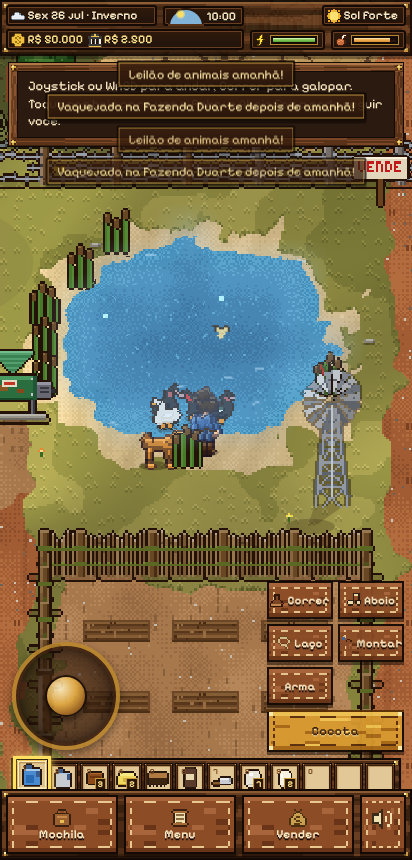
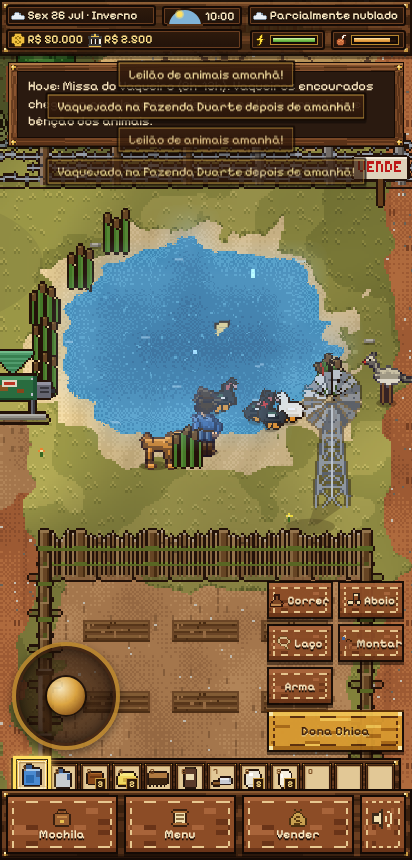
feat: diário de lida, mapa novo com estado dos pastos, animações e sons da lida; corrige barbatão que não cansava
Design: design/gdd/expansao_vida_rural.md (Rodada 4)

Claude-Session: https://claude.ai/code/session_019QA4KfsXCLeXJkXGqj3TGQ

diff --git a/web/index.html b/web/index.html
@@ -4724,6 +4724,13 @@ const AU = {
   shot(x, y) { const v = 0.5 * this.sp(x, y); this.nz(0.35, v, 'lowpass', 1800, 0.7); this.nz(1.2, v * 0.35, 'lowpass', 300, 0.6, { delay: 0.05 }); },
   slash() { this.nz(0.14, 0.18, 'bandpass', 3200, 1.4); },
   hiss(x, y) { this.nz(0.8, 0.1 * this.sp(x, y), 'highpass', 4200, 0.8); },
+  // sons novos: chocalho da madrinha, cigarra no calor, berrante, jato de leite no balde, bem-te-vi e ferro em brasa
+  chocalho(x, y) { if (!this.ctx) return; const v = 0.05 * this.sp(x, y); for (let i = 0; i < 2; i++) { this.osc('square', 610, 590, 0.22, v, { delay: i * 0.13, filt: 'bandpass', ff: 1250, q: 6, bus: 'a' }); this.osc('triangle', 915, 900, 0.16, v * 0.6, { delay: i * 0.13, bus: 'a' }); } },
+  cigarra() { if (!this.ctx) return; const f = rnd(4000, 4600); this.osc('sawtooth', f, f * 0.98, rnd(1.4, 2.4), 0.006, { filt: 'bandpass', ff: f, q: 9, vib: 55, vd: 220, att: 0.3, bus: 'a' }); },
+  berrante() { if (!this.ctx) return; this.osc('sawtooth', 196, 208, 1.9, 0.08, { filt: 'lowpass', ff: 700, q: 3, att: 0.25, vib: 4, vd: 2 }); this.osc('sawtooth', 294, 300, 1.2, 0.05, { delay: 1.9, filt: 'lowpass', ff: 800, q: 3, att: 0.15 }); },
+  squirt(x, y) { if (!this.ctx) return; for (let i = 0; i < 4; i++) this.nz(0.12, 0.05 * this.sp(x, y), 'bandpass', 2600 + i * 200, 2, { delay: i * 0.32 }); },
+  bemtevi() { if (!this.ctx) return; const f = rnd(2300, 2600); this.osc('sine', f, f * 1.05, 0.12, 0.02, { bus: 'a' }); this.osc('sine', f * 1.25, f * 1.2, 0.1, 0.02, { delay: 0.18, bus: 'a' }); this.osc('sine', f * 1.1, f * 0.85, 0.22, 0.02, { delay: 0.32, bus: 'a' }); },
+  brasa(x, y) { this.hiss(x, y); this.crackle && this.crackle(x, y); },
   hoot(x, y) { const v = 0.1 * this.sp(x, y); this.osc('sine', 420, 380, 0.25, v); this.osc('sine', 400, 360, 0.4, v, { delay: 0.35 }); },
   music(dt) {
     if (!this.ok() || this.vol.mu < 0.01 || mode !== 'play' || inst.on) return;
@@ -4746,6 +4753,10 @@ const AU = {
     L.town.g.gain.setTargetAtTime(town * 0.02, t, 0.8);
     if (isNight() && Math.random() < dt * 6) { const f = rnd(4200, 5200); for (let i = 0; i < 3; i++) this.osc('sine', f, 0, 0.03, 0.012, { delay: i * 0.06, bus: 'a' }); }
     if (isNight() && wd < 10 && Math.random() < dt * 0.8) this.osc('square', 180, 120, 0.12, 0.02, { filt: 'lowpass', ff: 500, bus: 'a' });
+    const hr = hour(), countryside = cx < 70 * TS || cy > 62 * TS || cy < 28 * TS;
+    if (!isNight() && countryside && hr >= 10 && hr <= 16 && (season() || S.weather === 'calor') && Math.random() < dt * 0.25) this.cigarra();
+    if (!isNight() && countryside && Math.random() < dt * 0.05) this.bemtevi();
+    if (Math.random() < dt * 0.5) { const a = S.animals.find(q => q.sp === 'boi' && q.own === 'player' && (q._mv || 0) > 6 && Math.abs(q.x - cx) < 160 && Math.abs(q.y - cy) < 120); if (a) this.chocalho(a.x, a.y); }
     if (!isNight() && Math.random() < dt * 0.15) { const f = rnd(2200, 3400); this.osc('sine', f, f * 1.3, 0.12, 0.02, { bus: 'a' }); this.osc('sine', f * 1.2, f, 0.15, 0.02, { delay: 0.16, bus: 'a' }); }
   }
 };
@@ -7149,9 +7160,10 @@ A.bagSel = v => { M.sel = v; renderModal(); AU.click(); };
 A.eat = v => { const it = IT[v]; if (!has(v)) return; closeModal(); act('eat', 0.9, null, () => { useInv(v); P.en = cl(P.en + (it.en || 0), 0, 100); P.fo = cl(P.fo + (it.fo || 0), 0, 100); AU.munch(); toast(`+${it.en || 0} energia · +${it.fo || 0} fome`); }, { zoom: 1.2 }); };
 A.drop = v => { useInv(v); renderModal(); };
 /* ---------- menu principal ---------- */
-const MTABS = [['vaq', 'Vaqueiro', 'hat'], ['inv', 'Mochila', 'bag'], ['ani', 'Animais', 'cow'], ['faz', 'Fazenda', 'farm'], ['pro', 'Produção', 'bank'], ['mis', 'Missões', 'book'], ['map', 'Mapa', 'map'], ['ban', 'Banco', 'bank'], ['obr', 'Obras', 'build'], ['peo', 'Peões', 'worker'], ['rel', 'Relações', 'heart'], ['col', 'Coleção', 'book'], ['cfg', 'Config.', 'gear']];
-function openMenu(tab) { showModal('', MTABS, tab || 'vaq', menuTab); }
+const MTABS = [['dia', 'Diário', 'book'], ['vaq', 'Vaqueiro', 'hat'], ['inv', 'Mochila', 'bag'], ['ani', 'Animais', 'cow'], ['faz', 'Fazenda', 'farm'], ['pro', 'Produção', 'bank'], ['mis', 'Missões', 'book'], ['map', 'Mapa', 'map'], ['ban', 'Banco', 'bank'], ['obr', 'Obras', 'build'], ['peo', 'Peões', 'worker'], ['rel', 'Relações', 'heart'], ['col', 'Coleção', 'book'], ['cfg', 'Config.', 'gear']];
+function openMenu(tab) { showModal('', MTABS, tab || 'dia', menuTab); }
 function menuTab(t) {
+  if (t === 'dia') return diarioHTML();
   if (t === 'col') return `<p class="mut">Peixes pescados, relíquias e as cartas do avô.</p>` + fishCollectionHTML() + relicHTML();
   if (t === 'vaq') {
     const st = STATES[S.cf.st];
@@ -7229,19 +7241,27 @@ function obrasTab() {
   h += '<h3>Projetos disponíveis</h3><p class="mut">Encomende na Casa do Pedreiro, em Itarantim. Materiais vão direto para o depósito.</p>' + Object.keys(BUILD).map(k => { const b = BUILD[k]; return `<div class="card"><div class="row sp"><b>${b.n}</b><b>${fmt(b.p)}</b></div><span class="mut">${b.f} · ${b.days} dia(s)</span><br><span style="font-size:12px">${matList(b.mat)}</span>${b.req.length ? '<br><span class="mut">Requer: ' + b.req.map(r => BUILD[r].n).join(', ') + '</span>' : ''}</div>`; }).join('');
   return h;
 }
-function mapHTML() {
-  const sc = 2.4, [c, g] = mkC(Math.round(WPX / 16 * sc), Math.round(HPX / 16 * sc));
-  g.imageSmoothingEnabled = false; g.drawImage(GR.mini(season()), 0, 0, c.width, c.height); /* mapa por cor média de cada solo: não precisa pintar o mapa inteiro em alta resolução */
-  g.fillStyle = 'rgba(0,0,0,0.25)'; for (const b of BLD) g.fillRect(b.r[0] * sc, b.r[1] * sc, (b.r[2] - b.r[0] + 1) * sc, (b.r[3] - b.r[1] + 1) * sc);
-  g.fillStyle = '#7a4a22'; for (let i = 0; i < obj.length; i++) if (obj[i] === 1) g.fillRect((i % MW) * sc, Math.floor(i / MW) * sc, sc, sc);
-  for (const k of ['norte', 'sul']) if (!S.exp[k]) { g.fillStyle = 'rgba(40,20,10,0.45)'; const y0 = k === 'norte' ? 0 : 67; g.fillRect(0, y0 * sc, 60 * sc, 22 * sc); }
-  g.font = 'bold 9px sans-serif'; g.textAlign = 'center';
-  const lab = (t, x, y) => { g.fillStyle = '#000'; g.fillText(t, x * sc + 1, y * sc + 1); g.fillStyle = '#fff4c0'; g.fillText(t, x * sc, y * sc); };
-  lab('SUA FAZENDA', 20, 22); lab('ITARANTIM', 90, 32); lab('F. CAMPOS', 75, 2.5); lab('F. DUARTE', 75, 89); lab('Curral', 45, 38); lab('Pastos', 18, 56); if (!S.exp.norte) lab('À VENDA', 30, 11); if (!S.exp.sul) lab('À VENDA', 30, 78);
-  for (const a of S.animals) if (a.own === 'player') { g.fillStyle = a.sp === 'boi' ? '#f4f0e8' : '#c08040'; g.fillRect(a.x / TS * sc - 1, a.y / TS * sc - 1, 2, 2); }
-  for (const e of npcs) if (!e.hidden) { g.fillStyle = '#40a0e0'; g.fillRect(e.x / TS * sc - 2, e.y / TS * sc - 2, 4, 4); }
-  g.fillStyle = '#ff3020'; g.beginPath(); g.arc(P.x / TS * sc, P.y / TS * sc, 4, 0, 7); g.fill(); g.strokeStyle = '#fff'; g.lineWidth = 1.5; g.stroke();
-  return `<img src="${c.toDataURL()}" style="width:100%;border:3px solid #2b1608;image-rendering:auto"><p class="mut">🔴 Você · 🔵 Moradores · ⬜ seu gado. A cidade fica a leste, depois da ponte do riacho.</p>`;
+function mapHTML() { // mapa da fazenda e da cidade (x 0–111): pastos coloridos pelo capim, cercados com nome e lotação, marcadores
+  const sc = 3, MWv = 112, [c, g] = mkC(MWv * sc, MH * sc);
+  g.imageSmoothingEnabled = false; const mini = GR.mini(season()); g.drawImage(mini, 0, 0, MWv, MH, 0, 0, MWv * sc, MH * sc);
+  for (const k of AKEYS) { const A0 = AREAS[k], r = A0.r; if (r[0] > MWv || A0.k === 'npc') continue; const ok = owned(k) && !(A0.exp && !S.exp[A0.exp]);
+    if (A0.k === 'pasto' && ok) { const q = pastureInfo(k); g.fillStyle = q.pct < 25 ? 'rgba(220,60,40,0.32)' : q.pct < 50 ? 'rgba(240,200,40,0.28)' : 'rgba(80,200,80,0.22)'; g.fillRect((r[0] + 1) * sc, (r[1] + 1) * sc, (r[2] - r[0] - 1) * sc, (r[3] - r[1] - 1) * sc); }
+    if (!ok) { g.fillStyle = 'rgba(40,20,10,0.42)'; g.fillRect(r[0] * sc, r[1] * sc, (r[2] - r[0] + 1) * sc, (r[3] - r[1] + 1) * sc); } }
+  for (const k of ['norte', 'sul']) if (!S.exp[k]) { g.fillStyle = 'rgba(40,20,10,0.4)'; const y0 = k === 'norte' ? 0 : 67; g.fillRect(0, y0 * sc, 60 * sc, 22 * sc); }
+  g.fillStyle = 'rgba(0,0,0,0.3)'; for (const b of BLD) if (b.r[0] < MWv) g.fillRect(b.r[0] * sc, b.r[1] * sc, (b.r[2] - b.r[0] + 1) * sc, (b.r[3] - b.r[1] + 1) * sc);
+  g.fillStyle = '#6a4020'; for (let y = 0; y < MH; y++) for (let x = 0; x < MWv; x++) if (obj[gi(x, y)] === 1) g.fillRect(x * sc, y * sc, sc, sc);
+  g.textAlign = 'center';
+  const lab = (t, x, y, sz, col) => { g.font = 'bold ' + (sz || 10) + 'px sans-serif'; g.fillStyle = 'rgba(0,0,0,0.85)'; g.fillText(t, x * sc + 1, y * sc + 1); g.fillStyle = col || '#fff4c0'; g.fillText(t, x * sc, y * sc); };
+  for (const k of AKEYS) { const A0 = AREAS[k], r = A0.r; if (r[0] > MWv || A0.k === 'npc') continue; const n = areaCount(k), short = A0.n.replace(/ \(.*\)/, '').replace('Piquete', 'P.').replace('Curral do Retiro', 'Curral'); lab(short + (n ? ' · ' + n : ''), (r[0] + r[2] + 1) / 2, (r[1] + r[3]) / 2 + 1, 9, owned(k) ? '#fff4c0' : '#c8b8a0'); }
+  lab('SUA FAZENDA', 20, 22.5, 12); lab('ITARANTIM', 90, 37, 12); lab('F. CAMPOS', 75, 2.8, 10); lab('F. DUARTE', 75, 90, 10); lab('RETIRO', 20, 111.6, 11); lab('CAATINGA', 86, 112, 10, '#e8d8a8');
+  if (!S.exp.norte) lab('À VENDA', 30, 11); if (!S.exp.sul) lab('À VENDA', 30, 78);
+  for (const a of S.animals) if (a.own === 'player') { g.fillStyle = a.sp === 'boi' ? '#ffffff' : '#e0a050'; g.fillRect(a.x / TS * sc - 1, a.y / TS * sc - 1, 3, 3); }
+  for (const e of npcs) if (!e.hidden && e.x < MWv * TS) { g.fillStyle = '#40a0e0'; g.fillRect(e.x / TS * sc - 2, e.y / TS * sc - 2, 4, 4); }
+  const pin = (x, y, t, col) => { g.fillStyle = col; g.beginPath(); g.arc(x * sc, y * sc - 8, 7, 0, 7); g.fill(); g.strokeStyle = '#2b1608'; g.lineWidth = 2; g.stroke(); g.font = 'bold 10px sans-serif'; g.fillStyle = '#fff'; g.fillText(t, x * sc, y * sc - 4.5); };
+  if (S.pega) { const a = byId(S.pega.aid); if (a) pin(a.x / TS, a.y / TS, '!', '#d04020'); }
+  if (eventsOnDay(S.day).length) pin(84, 50, '★', '#e0a020');
+  g.fillStyle = '#ff3020'; g.beginPath(); g.arc(P.x / TS * sc, P.y / TS * sc, 5, 0, 7); g.fill(); g.strokeStyle = '#fff'; g.lineWidth = 2; g.stroke();
+  return `<img src="${c.toDataURL()}" style="width:100%;border:3px solid #2b1608;image-rendering:auto"><p class="mut">🔴 Você · 🔵 Moradores · ⬜ seu gado · pastos: 🟩 capim bom, 🟨 médio, 🟥 rapado · escuro: terra ainda não liberada · ❗ barbatão · ★ festa hoje na praça.</p>`;
 }
 /* ---------- fazenda ---------- */
 // estado dos pastos: capim médio, lotação, dias de pasto, bebedouro e conselho de rodízio
@@ -7437,13 +7457,20 @@ function lidaDay(a, se) {
 function lidaDo(a, k) {
   skXp('lid', 2);
   const need = (it, msg) => { if (!has(it)) { say(msg); AU.err(); return false; } return true; };
-  if (k === 'umbigo') { if (!need('iodo', 'Precisa de iodo 10% (Casa do Agro).')) return; return doAnimal(a, 'exam', 1.4, () => { if (!useInv('iodo', 0.25)) return; a.umb = 2; a.hp = cl(a.hp + 5, 0, 100); bond(a, 2); hist(a, 'Umbigo curado com iodo'); toast('🩹 Umbigo de ' + a.n + ' curado.'); }); }
-  if (k === 'bicheira') { if (!need('mataBicheira', 'Precisa de mata-bicheira (Casa do Agro).')) return; return doAnimal(a, 'exam', 1.6, () => { if (!useInv('mataBicheira', 0.25)) return; a.bich = 0; a.bichD = 0; a.wound = 0; a.hp = cl(a.hp + 8, 0, 100); hist(a, 'Bicheira curada'); toast('✅ Bicheira de ' + a.n + ' curada.'); }); }
+  if (k === 'umbigo') { if (!need('iodo', 'Precisa de iodo 10% (Casa do Agro).')) return; return doAnimal(a, 'exam', 1.4, () => { if (!useInv('iodo', 0.25)) return; lidaFx(a, 'spray', '#c86a3a'); a.umb = 2; a.hp = cl(a.hp + 5, 0, 100); bond(a, 2); hist(a, 'Umbigo curado com iodo'); toast('🩹 Umbigo de ' + a.n + ' curado.'); }); }
+  if (k === 'bicheira') { if (!need('mataBicheira', 'Precisa de mata-bicheira (Casa do Agro).')) return; return doAnimal(a, 'exam', 1.6, () => { if (!useInv('mataBicheira', 0.25)) return; lidaFx(a, 'spray', '#c8d0d8'); a.bich = 0; a.bichD = 0; a.wound = 0; a.hp = cl(a.hp + 8, 0, 100); hist(a, 'Bicheira curada'); toast('✅ Bicheira de ' + a.n + ' curada.'); }); }
   if (!inPen(a) && k !== 'desmamar') { say('Leve o animal para um curral: no pasto não dá para conter.'); AU.err(); return; }
-  if (k === 'castrar') { if (!need('mataBicheira', 'Depois de castrar precisa de mata-bicheira na ferida.')) return; return doAnimal(a, 'exam', 2.2, () => { if (!useInv('mataBicheira', 0.25)) return; a.cast = 1; a.wound = S.day + 3; a.hap = cl(a.hap - 12, 5, 100); a.stress = (a.stress || 0) + 25; if (a.temp === 'nervoso' || a.temp === 'arisco') a.temp = 'calmo'; hist(a, 'Castrado'); toast('✂ ' + a.n + ' castrado: fica mais manso e engorda melhor. Olho na ferida por 3 dias.'); }); }
-  if (k === 'ferrar') { const it = has('ferroMarca') ? 'Sua marca' : 'Marca T.S. do avô'; return doAnimal(a, 'exam', 2.0, () => { a.brand = 1; a.wound = S.day + 3; a.hap = cl(a.hap - 8, 5, 100); a.stress = (a.stress || 0) + 15; hist(a, 'Ferrado: ' + it); part(a.x, a.y - 14, 'dust', { vx: 0, vy: -14, m: .6, c: '#c8c8c8', s: 2 }); toast('🔥 ' + a.n + ' ferrado (' + it + '). Passe mata-bicheira na queimadura.'); }); }
+  if (k === 'castrar') { if (!need('mataBicheira', 'Depois de castrar precisa de mata-bicheira na ferida.')) return; return doAnimal(a, 'exam', 2.2, () => { if (!useInv('mataBicheira', 0.25)) return; lidaFx(a, 'kick'); lidaFx(a, 'spray', '#c8d0d8'); a.cast = 1; a.wound = S.day + 3; a.hap = cl(a.hap - 12, 5, 100); a.stress = (a.stress || 0) + 25; if (a.temp === 'nervoso' || a.temp === 'arisco') a.temp = 'calmo'; hist(a, 'Castrado'); toast('✂ ' + a.n + ' castrado: fica mais manso e engorda melhor. Olho na ferida por 3 dias.'); }); }
+  if (k === 'ferrar') { const it = has('ferroMarca') ? 'Sua marca' : 'Marca T.S. do avô'; return doAnimal(a, 'exam', 2.0, () => { lidaFx(a, 'brand'); a.brand = 1; a.wound = S.day + 3; a.hap = cl(a.hap - 8, 5, 100); a.stress = (a.stress || 0) + 15; hist(a, 'Ferrado: ' + it); part(a.x, a.y - 14, 'dust', { vx: 0, vy: -14, m: .6, c: '#c8c8c8', s: 2 }); toast('🔥 ' + a.n + ' ferrado (' + it + '). Passe mata-bicheira na queimadura.'); }); }
   if (k === 'desmamar') return doAnimal(a, 'pet', 1.2, () => { a.desm = 1; a.hap = cl(a.hap - 10, 5, 100); const m = S.animals.find(x => x.id === a.mid); if (m) { m.cond = cl(m.cond + 15, 0, 100); m._desmB = S.day + 20; m.lact = Math.min(m.lact || 0, 2); hist(m, 'Bezerro ' + a.n + ' desmamado'); } hist(a, 'Desmamado'); toast('🐮 ' + a.n + ' desmamado. Separe de pasto da mãe; dê ração no cocho para não perder peso.'); });
   if (k === 'pesar') { if (!hasScale()) { say('Precisa de balança: a do Retiro ou um tronco com balança num lote.'); return; } return doAnimal(a, 'exam', 1.2, () => { weighOne(a); toast('⚖ ' + a.n + ': ' + Math.round(a.wt) + ' kg' + (a.wH.length > 1 ? ' · GMD ' + gmd(a).toFixed(2) + ' kg/dia' : '')); }); }
+}
+// animação da lida: partículas e som no animal (spray de remédio, fumaça e brasa do ferro, jatos de leite, coice e poeira)
+function lidaFx(a, kind, col) { const x = a.x, y = a.y;
+  if (kind === 'spray') { for (let i = 0; i < 14; i++) part(x + rnd(-6, 6) * a.f, y - 12 + rnd(-4, 4), 'spark', { vx: rnd(-18, 18), vy: rnd(-22, 4), m: 0.5, c: col || '#e0e8f0', s: 1 }); AU.hiss && AU.hiss(x, y); }
+  if (kind === 'brand') { for (let i = 0; i < 10; i++) part(x - 6 * a.f, y - 14, 'dust', { vx: rnd(-6, 6), vy: rnd(-20, -8), m: 1.1, c: '#d8d8d8', s: 2 }); for (let i = 0; i < 8; i++) part(x - 6 * a.f, y - 12, 'spark', { vx: rnd(-30, 30), vy: rnd(-30, -6), m: 0.4, c: '#ffa040', s: 1 }); AU.brasa && AU.brasa(x, y); AU.moo && AU.moo(x, y, 1.15); lidaFx(a, 'kick'); }
+  if (kind === 'milk') { for (let i = 0; i < 12; i++) part(x + rnd(-3, 3), y - 6, 'spark', { vx: rnd(-4, 4), vy: rnd(8, 26), m: 0.6, c: '#fbfaf2', s: 1 }); AU.squirt && AU.squirt(x, y); }
+  if (kind === 'kick') { for (let i = 0; i < 10; i++) part(x + rnd(-10, 10), y + 2, 'dust', { vx: rnd(-20, 20), vy: rnd(-12, -2), m: 0.7, c: '#b89868', s: 2 }); a._t = 0; a._st = 'idle'; AU.moo && AU.moo(x, y, 1.1); }
 }
 function weighOne(a) { a.wH = a.wH || []; const last = a.wH[a.wH.length - 1]; if (last && last[0] === S.day) last[1] = Math.round(a.wt); else a.wH.push([S.day, Math.round(a.wt)]); if (a.wH.length > 8) a.wH.shift(); hist(a, 'Pesado: ' + Math.round(a.wt) + ' kg'); }
 function arrobas(a) { return a.wt * 0.52 / 15; } // rendimento de carcaça ~52%; arroba = 15 kg de carcaça
@@ -7453,6 +7480,35 @@ function weighLot(ak) {
   showModal('⚖ Balança — ' + AREAS[ak].n, null, null, () => L.length ? `<p class="mut">Lote passado no brete e pesado um a um. GMD = ganho médio diário desde a pesagem anterior (1 dia de jogo ≈ 1 mês do animal). Arroba = 15 kg de carcaça (~52% do peso vivo).</p><div class="card">${L.map(a => `<div class="row sp"><span>${esc(a.n)} <span class="mut">${catName(a)}</span></span><span>${Math.round(a.wt)} kg · ${arrobas(a).toFixed(1)} @${a.wH.length > 1 ? ' · <b>' + gmd(a).toFixed(2) + '</b> kg/d' : ''}</span></div>`).join('')}</div><p><b>${L.length}</b> cabeças · <b>${Math.round(tot)}</b> kg · média ${Math.round(tot / L.length)} kg · ${(L.reduce((t, a) => t + arrobas(a), 0)).toFixed(1)} @ (${fmt(L.reduce((t, a) => t + (a.sp === 'boi' ? animalValue(a) : 0), 0))} no preço de hoje)</p>` : '<p>Não há animais neste curral. Traga o lote para o curral e passe pelo brete.</p>');
 }
 A.retFix = k => retFix(k);
+/* ============ DIÁRIO DE LIDA ============
+   Caderno do vaqueiro: monta a lista do dia olhando o estado real da fazenda (urgente, hoje, quando der) e diz como fazer. */
+function diarioHTML() {
+  const U = [], T = [], D = [], mine = myAnimals().filter(a => !a._hid && a.sp !== 'cao'), h = hour();
+  const add = (L, ic, t, how) => L.push(`<div class="card"><b>${ic} ${t}</b>${how ? `<br><span class="mut">${how}</span>` : ''}</div>`);
+  const bich = mine.filter(a => a.bich), sick = mine.filter(a => a.sick), umb = mine.filter(a => a.umb === 1);
+  if (bich.length) add(U, '🪰', 'Bicheira em ' + bich.map(a => a.n).slice(0, 4).join(', '), 'Ficha do animal › Curar bicheira (mata-bicheira na Casa do Agro).');
+  if (sick.length) add(U, '🤒', 'Doentes: ' + sick.map(a => a.n).slice(0, 4).join(', '), 'Ficha do animal › Tratar (remédio).');
+  if (umb.length) add(U, '🩹', 'Umbigo de bezerro por curar: ' + umb.map(a => a.n).join(', '), 'Iodo nos 3 primeiros dias de vida evita bicheira.');
+  const thirsty = mine.filter(a => a.water < 25), hungry = mine.filter(a => a.food < 20 && a.sp !== 'galinha');
+  if (thirsty.length) add(U, '💧', thirsty.length + ' animal(is) com sede', 'Veja os bebedouros: encha com galão ou instale a boia.');
+  if (hungry.length) add(U, '🌾', hungry.length + ' animal(is) com fome', 'Troque o lote de piquete ou ponha ração/forragem no cocho.');
+  TROUGHS.forEach((t, i) => { if (!AREAS[t.a] || AREAS[t.a].k === 'npc' || !owned(t.a) || !areaCount(t.a)) return; const f = S.tr[i] / trCap(i); if (f < 0.2) add(T, t.k === 'agua' ? '💧' : '🌽', (t.k === 'agua' ? 'Bebedouro' : 'Cocho') + ' quase vazio: ' + AREAS[t.a].n, 'Toque no cocho para abastecer.'); });
+  for (const k of AKEYS) { if (AREAS[k].k !== 'pasto' || !owned(k) || (AREAS[k].exp && !S.exp[AREAS[k].exp])) continue; const q = pastureInfo(k); if (q.heads && q.pct < 25) add(T, '🔄', AREAS[k].n + ': capim rapado (' + q.pct + '%)', 'Leve o lote para um piquete descansado (ficha › Trocar de pasto, ou peão › recolher).'); }
+  const C = ctrS(); for (const c of C.act) { const left = c.due - S.day; add(left <= 2 ? U : T, '📄', 'Contrato com ' + CTR_KINDS[c.k].who + ': ' + c.got + '/' + c.need + ' — ' + (left <= 0 ? 'vence hoje!' : 'faltam ' + left + ' dia(s)'), 'Aba Fazenda › Contratos › Entregar.'); }
+  if (S.pega) add(T, '🐂', 'Barbatão do Seu Abílio solto na caatinga ao sul da cidade (recompensa ' + fmt(S.pega.rew) + ')', 'Vá montado e de gibão, canse o boi, laçe e traga para um cercado seu. Prazo: dia ' + S.pega.due + '.');
+  const milk = mine.filter(a => (a.sp === 'boi' || a.sp === 'cabra') && a.sex === 'F' && a.lact > 0 && a.milkD !== S.day); if (milk.length) add(T, '🥛', milk.length + ' vaca(s)/cabra(s) para ordenhar', 'Ficha do animal › Ordenhar. No fogão o leite vira queijo e requeijão.');
+  if (S.eggs > 6) add(T, '🥚', S.eggs + ' ovos no ninho', 'Galinheiro › recolher ovos.');
+  const ev = eventsOnDay(S.day); if (ev.length) add(T, '🎉', 'Hoje: ' + ev.map(k => EVENTS[k].n + ' (' + EVENTS[k].h[0] + 'h)').join(', '), ev.includes('junina') ? 'Arraiá na praça: quadrilha, correio elegante e pescaria.' : '');
+  const desm = mine.filter(a => nursing(a) && a.age >= (a.sp === 'boi' ? 7 : 4)); if (desm.length) add(D, '🍼', desm.length + ' bezerro(s) no ponto de desmama', 'A vaca recupera e volta a emprenhar mais cedo.');
+  const ferr = mine.filter(a => a.sp === 'boi' && !a.brand && a.age >= 6); if (ferr.length > 2) add(D, '🔥', ferr.length + ' cabeça(s) sem ferro', 'No curral, ficha › Ferrar (ferro do avô ou ferro novo).');
+  if (!S.salt || !Object.values(S.salt).some(d => d >= S.day)) add(D, '🧂', 'Nenhum cocho com sal mineral', 'Sal no cocho coberto dura 7 dias e deixa o gado mais saudável.');
+  const nx = Object.keys(RETIRO).find(k => !retOk(k)); if (nx && canPay(RETIRO[nx].p)) add(D, '🔨', 'Dá para recuperar o ' + AREAS[nx].n + ' (' + fmt(RETIRO[nx].p) + ')', 'Placa do Retiro ou aba Fazenda.');
+  if (C.act.length < 2 && C.off.length) add(D, '📄', 'Há propostas de contrato nesta semana', 'Aba Fazenda › Contratos.');
+  if (h >= 20 || h < 4) add(T, '🛏', 'Já é tarde: durma na Casa Sede', 'Depois da meia-noite o cansaço aumenta.');
+  const tips = ['Pasto descansado rebrota 50% mais rápido: faça rodízio.', 'Vaca amamentando bezerro grande demora a emprenhar: desmame na hora certa.', 'Na seca a arroba sobe: segure o boi gordo para vender melhor.', 'Animal novo vai para a quarentena antes de juntar com o rebanho.', 'O aboio chama o gado; o cachorro ajuda a juntar.', 'Queijo coalho vale bem mais que o leite que ele gasta.'];
+  const sec = (n, L) => L.length ? `<h3>${n}</h3>` + L.join('') : '';
+  return `<p class="mut">${WEEK[wday()]}, ${dateStr()} · ${seasonName()} · ${clock()}</p>` + (U.length + T.length + D.length ? sec('⚠ Urgente', U) + sec('📋 Hoje', T) + sec('🗓 Quando der', D) : '<div class="card">✅ Tudo em dia na fazenda. Bom dia para pescar, treinar o cavalo ou ir à cidade.</div>') + `<div class="card"><b>💡 Dica</b><br><span class="mut">${tips[S.day % tips.length]}</span></div>`;
+}
 /* ============ CASA E MÓVEIS ============
    Móveis da marcenaria do Bira (comprados pela casa). Aparecem dentro da Casa Sede e somam conforto: cada ponto deixa o
    cansaço do dia 2% mais lento (até 24%). Cama de casal: acorda bem descansado (−15% de cansaço no dia seguinte).
@@ -7480,7 +7536,7 @@ function pegaDay() { const g = pegaS(); if (g) { if (S.day > g.due) { S.animals 
   if (S.day >= 4 && (S.pegaNext || 0) <= S.day && Math.random() < 0.2) { S.pegaNext = S.day + rint(6, 10); pegaSpawn(); } }
 function pegaMove(a, dt) { // foge do vaqueiro dentro da caatinga; cansa e para
   const d = hyp(P.x - a.x, P.y - a.y), near = d < (P.mnt ? 140 : 100);
-  a._stam = cl((a._stam === undefined ? 9 : a._stam) + (near && a._stam > 0 ? -dt : dt * 0.35), -2, 9);
+  a._stam = cl((a._stam === undefined ? 9 : a._stam) + (near ? -dt : dt * 0.35), -2, 9); // só recupera o fôlego quando o vaqueiro se afasta
   if (near && a._stam > 0) { let ux = (a.x - P.x) / (d || 1), uy = (a.y - P.y) / (d || 1); const tx = a.x / TS, ty = a.y / TS; if (tx < PEGA.x0 + 2) ux = Math.abs(ux); if (tx > PEGA.x1 - 2) ux = -Math.abs(ux); if (ty < PEGA.y0 + 2) uy = Math.abs(uy); if (ty > PEGA.y1 - 2) uy = -Math.abs(uy);
     const wob = Math.sin(drawT * 2 + a.id) * 0.6, r = stepTo(a, a.x + (ux - uy * wob) * 50, a.y + (uy + ux * wob) * 50, 74, dt, 'a'); if (r === 'stuck') { a._tw = (a._tw || 0) + 1; a.x += uy * 6 * (a._tw % 2 ? 1 : -1); } a._pose = 'run'; a._st = 'flee'; return true; }
   if (near) { a._pose = 'idle'; a._st = 'tired'; if (Math.random() < dt * 0.4) part(a.x + 8 * a.f, a.y - 16, 'dust', { vx: 0, vy: -6, m: 0.5, c: '#e8e0d0', s: 1 }); return true; }
@@ -7492,7 +7548,7 @@ function pegaUpd(dt) { const g = pegaS(); if (!g) return; const a = byId(g.aid);
   const tx = P.x / TS, ty = P.y / TS; if (P.mnt && P._mv > 60 && tx > 62 && tx < 111 && ty > 110 && !(has('gibao') || (S.cf.ap.shirt === 2))) { if ((pegaT -= dt) < 0) { pegaT = 2.2; P.en = Math.max(0, P.en - 2); if (!g.thorn) { g.thorn = 1; say('Ai! Espinho de jurema. Sem gibão a caatinga rasga a roupa e o couro (−energia). A Casa do Agro vende gibão de couro.', 4000); } } }
   // pegou: barbatão laçado dentro de um cercado seu
   if (lasso.t === a) { const ak = areaAt(a.x, a.y); if (ak && AREAS[ak].k !== 'npc' && owned(ak) && !(AREAS[ak].exp && !S.exp[AREAS[ak].exp])) {
-    lasso.t = null; S.animals = S.animals.filter(x => x !== a); S.pega = null; S.stats.pegas = (S.stats.pegas || 0) + 1; receive(g.rew, 'Pega de boi no mato (Seu Abílio)'); skXp('lid', 15); skXp('lac', 10); addFr && addFr('abilio', 10); addFr && addFr('bene', 8);
+    lasso.t = null; S.animals = S.animals.filter(x => x !== a); S.pega = null; S.stats.pegas = (S.stats.pegas || 0) + 1; receive(g.rew, 'Pega de boi no mato (Seu Abílio)'); AU.berrante && AU.berrante(); skXp('lid', 15); skXp('lac', 10); addFr && addFr('abilio', 10); addFr && addFr('bene', 8);
     regionNews && regionNews(S.cf.name + ' pegou no laço o barbatão do Seu Abílio. O povo já comenta na praça.'); AU.jingle && AU.jingle(); toast('🏆 Pegou o barbatão! Seu Abílio pagou ' + fmt(g.rew) + '.'); } } }
 /* ============ CONTRATOS DE VENDA ============
    Toda semana chegam propostas: frigorífico (bois gordos acima de um peso, com prêmio sobre a arroba), laticínio (litros de
@@ -7569,7 +7625,7 @@ A.sa = k => {
     case 'collarEdit': closeSheet(); return showModal('Coleira de ' + a.n, null, null, () => `<div class="row">${animalImg(a, 3)}</div>` + COLLARN.map((n, i) => btn(((a.collar || 0) === i ? '● ' : '') + n, 'collarSet', a.id + '|' + i)).join(''));
     case 'milkCow': return doAnimal(a, 'feed', 2.4, () => { if (a.milkD === S.day) return; const calf = S.animals.some(c => c.mid === a.id && !c.desm && c.age <= 10); // bezerro ao pé: tira só parte, o resto fica para ele
       const L2 = Math.max(1, Math.round(((CATTLE[a.br] || {}).milk || 0.4) * 9 * (a.hap / 100 + 0.3) * (a.food > 40 ? 1 : 0.6) * (calf ? 0.5 : 1) * (1 + skill('pec') * 0.05))); if (invRoom('leite') < L2) return say('Mochila sem espaço para o leite.');
-      a.milkD = S.day; addInv('leite', L2, true); questEvent('produce', 'leite'); bond(a, 2); hist(a, 'Ordenhada: ' + L2 + ' L'); toast('🥛 ' + a.n + ': ' + L2 + ' L de leite' + (calf ? ' (metade ficou para o bezerro)' : '') + '. No fogão vira queijo, requeijão e doce.'); });
+      a.milkD = S.day; lidaFx(a, 'milk'); addInv('leite', L2, true); questEvent('produce', 'leite'); bond(a, 2); hist(a, 'Ordenhada: ' + L2 + ' L'); toast('🥛 ' + a.n + ': ' + L2 + ' L de leite' + (calf ? ' (metade ficou para o bezerro)' : '') + '. No fogão vira queijo, requeijão e doce.'); });
     case 'milkGoat': return doAnimal(a, 'feed', 2.0, () => { if (a.milkD === S.day) return; const L2 = Math.max(0.5, Math.round(((GOATS[a.br] || {}).milk || 0.6) * 2.2 * (a.hap / 100 + 0.3) * (a.food > 40 ? 1 : 0.6) * 2) / 2); a.milkD = S.day; addInv('leiteCabra', L2, true); questEvent('produce', 'leiteCabra'); bond(a, 2); hist(a, 'Ordenhada: ' + L2 + ' L'); toast('🥛 ' + a.n + ': ' + L2 + ' L de leite de cabra.'); S.stats.milkG = (S.stats.milkG || 0) + L2; });
     case 'water': return doAnimal(a, 'water', 1.4, () => { if (!useInv('galao')) return; questEvent('water', 'animal'); addInv('galaoV', 1, true); a.water = 100; a.hap = cl(a.hap + 2, 0, 100); if (a.sp === 'galinha') { const i = trIdx('galin', 'agua'); if (i >= 0) S.tr[i] = trCap(i); } hist(a, 'Bebeu água do galão'); AU.splash(); });
     case 'pet': return doAnimal(a, 'pet', 1.0, () => { questEvent('pet', a.sp); if (a.petD !== S.day) { a.petD = S.day; a.hap = cl(a.hap + 5, 0, 100); a.care = cl(a.care + 2, 0, 100); bond(a, 5); AU.chime(); } heart(a.x, a.y - 22); sound(); });

diff --git a/tests/web/diario_test.js b/tests/web/diario_test.js
@@ -1,0 +1,17 @@
+// diário de lida, mapa novo, animações da lida e sons novos
+const {chromium}=require('playwright');const path=require('path');const EV=path.resolve(__dirname,'../../production/qa/evidence')+'/';
+(async()=>{const b=await chromium.launch();const p=await b.newPage({viewport:{width:412,height:860}});const errs=[];p.on('pageerror',e=>errs.push(e.message));p.on('console',m=>{if(m.type()==='error')errs.push(m.text().slice(0,200))});
+await p.goto('file://'+path.resolve(__dirname,'../../web/index.html')+'#debug-nointro');await p.waitForTimeout(1200);
+const E=s=>p.evaluate(s=>__lida.ev(s),s);await E("newGame(defaultCF())");await p.waitForTimeout(400);await E("FILM.end();closeModal();qPump=()=>{};QDQ.length=0");
+const R=[];const ok=(n,c,i)=>R.push((c?'OK  ':'FALHA ')+n+(i?' — '+i:''));
+await E("const a=S.animals.find(x=>x.own==='player'&&x.sp==='boi');a.bich=1;a.water=10;pegaSpawn();ctrOffers();A.ctrTake(0)");
+await E("openMenu()");await p.waitForTimeout(400);
+ok('menu abre no Diário',await E("/Urgente/.test(document.body.innerText)&&/Bicheira em/.test(document.body.innerText)"));
+ok('diário lista contrato, barbatão e sede',await E("(()=>{const t=document.body.innerText;return /Contrato com/.test(t)&&/Barbatão/.test(t)&&/com sede/.test(t)})()"));
+await p.screenshot({path:EV+'diario-lida.png'});
+await E("closeModal();openMenu('map')");await p.waitForTimeout(600);ok('mapa novo com legenda de capim e marcadores',await E("/capim bom/.test(document.body.innerText)&&/barbatão/.test(document.body.innerText)"));
+await p.screenshot({path:EV+'mapa-novo.png'});await E("closeModal()");
+await E("const a=S.animals.find(x=>x.own==='player'&&x.sp==='boi');parts.length=0;window.__n0=0;lidaFx(a,'brand');lidaFx(a,'milk');lidaFx(a,'spray');lidaFx(a,'kick')");
+ok('animações da lida soltam partículas sem erro',await E("parts.length>20"));
+await E("AU.chocalho(P.x,P.y);AU.cigarra();AU.berrante();AU.squirt(P.x,P.y);AU.bemtevi();AU.brasa(P.x,P.y)");ok('sons novos tocam sem erro',true);
+console.log(R.join('\n'));console.log([...new Set(errs)].join('\n')||'sem erros');await b.close();})();

diff --git a/design/gdd/expansao_vida_rural.md b/design/gdd/expansao_vida_rural.md
@@ -265,3 +265,16 @@ As pessoas passaram a ser desenhadas pelo mesmo esqueleto (`RIG`) dos bois e cav
 Em Opções › Desenho das pessoas dá para voltar ao desenho **Clássico**. Os retratos dos diálogos não mudaram.
 
 Evidência: `production/qa/evidence/personagens-classico-x-novo.png`, `personagens-novo-com-cavalo.png`, `retiro-mapa.png`, `retiro-brete.png`, `lida-caderneta.png`, `lida-balanca.png`.
+
+## Rodada 4 — escolhas do jogador
+
+| Item | O que faz | Teste |
+|---|---|---|
+| Vizinhos equilibrados | O caixa das fazendas fica entre ~35% e ~160% do valor inicial: o excedente é reinvestido e quem fica sem dinheiro pega crédito rural | `econ_sim` (80 dias) |
+| Ordenha e laticínios | Ordenha de vaca na mão, uma vez por dia; com bezerro ao pé sai a metade. No fogão: queijo coalho (5 L), requeijão (6 L), manteiga de garrafa (8 L) e doce de leite | `leite_test.js` |
+| Contratos de venda | 3 propostas por semana (frigorífico com prêmio na arroba, laticínio, restaurante, padaria). Até 2 ao mesmo tempo, entrega aos poucos e multa de 10% se vencer | `contrato_test.js` |
+| Habilidades do vaqueiro | Lida, pecuária, laço, montaria e negócio, de 0 a 10. Sobem fazendo a lida; cada nível pede 25 xp a mais | `habil_test.js` |
+| Pega de boi no mato | Barbatão na caatinga ao sul da cidade. Foge, cansa (~9 s), recupera longe do vaqueiro; laçado e levado ao curral paga a recompensa. Gibão protege do espinho | `pega_test.js` |
+| São João | Arraiá nos sábados de junho e em 15, 23 e 24/6. Quadrilha com marcador (8 passos, 3 s cada), correio elegante, pescaria de prendas e comidas típicas | `saojoao_test.js` |
+| Casa e móveis | Marcenaria do Bira: o conforto deixa o cansaço até 24% mais lento. Cama de casal (−15% no dia seguinte), sofá, TV com previsão e troféus | `moveis_test.js` |
+| Diário, mapa, animações e sons | Diário com urgente, hoje e quando der. Mapa com pastos coloridos pelo capim e marcadores. Partículas na lida (spray, brasa, leite, coice). Sons novos: chocalho, cigarra, berrante, jato de leite, bem-te-vi | `diario_test.js` |
